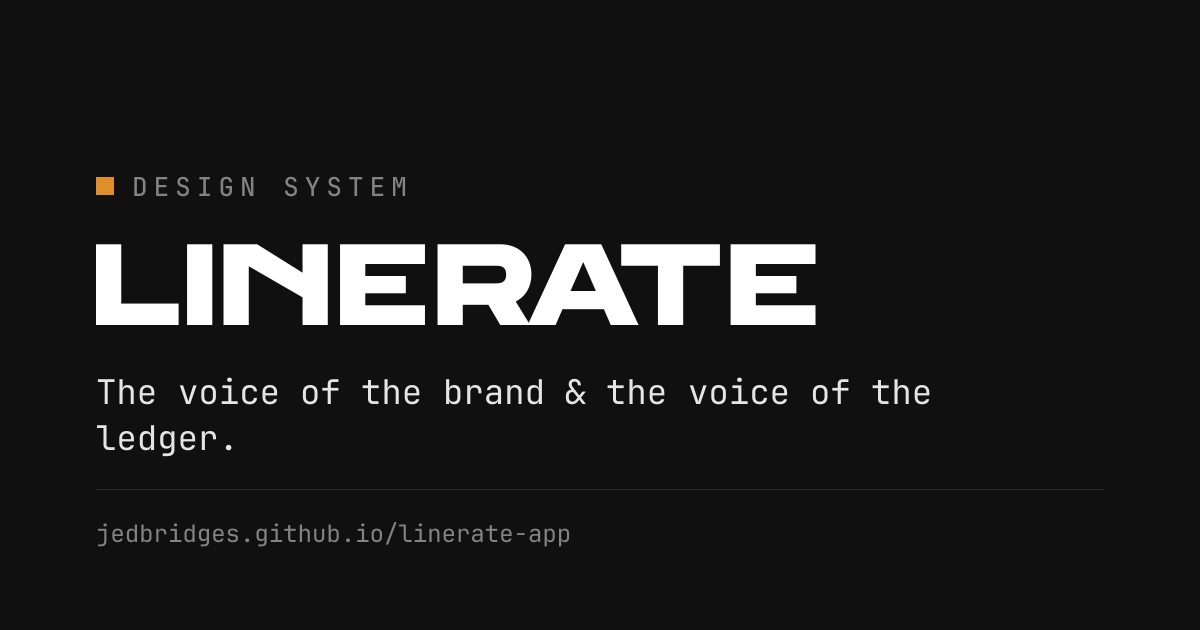
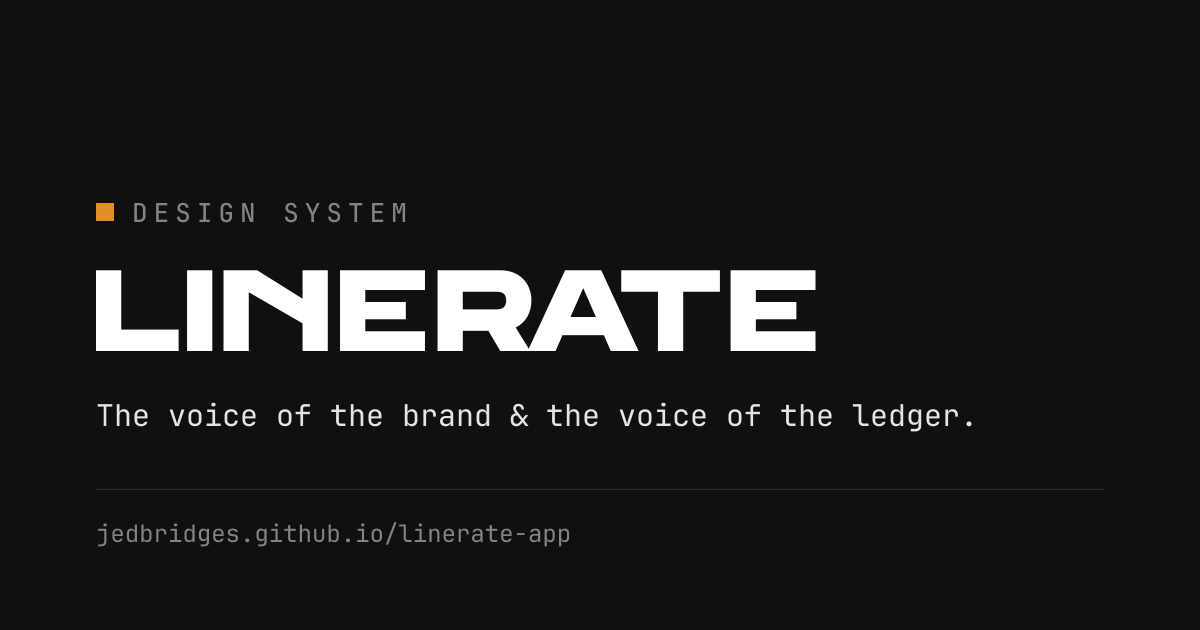
Keep the OG image subline on one line
The hero line wrapped with "ledger." orphaned on its own row. Drop the
subline to 30px and set nowrap so it stays a single line within the
content width. Regenerated public/og.png.

diff --git a/scripts/og-image.tsx b/scripts/og-image.tsx
@@ -114,8 +114,8 @@ export default async function Image() {
           style={{
             marginTop: 44,
             color: CHALK,
-            fontSize: 34,
-            maxWidth: 880,
+            fontSize: 30,
+            whiteSpace: "nowrap",
             lineHeight: 1.35,
           }}
         >